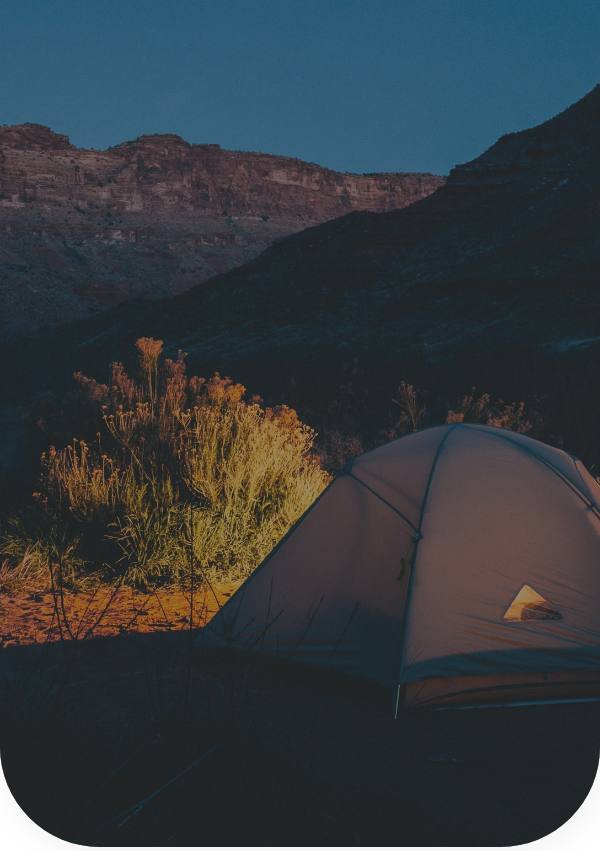
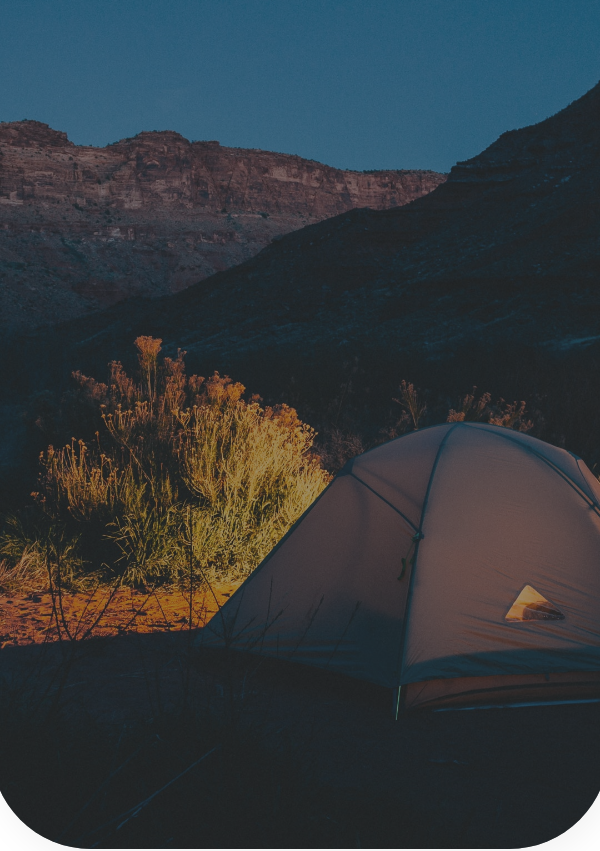
images done

diff --git a/app/index.html b/app/index.html
@@ -68,11 +68,45 @@
       <!-- Hero Section -->
       <div class="section-hero">
         <div class="hero">
-          <img
-            src="./assets/images/img/hero-background.png"
-            alt="campsel hero hero-background image"
-            class="hero-image"
-          />
+          <picture>
+            <source
+              srcset="
+                ./assets/images/img/hero-background.png    2010w,
+                ./assets/images/img/hero-background-2x.png 4020w
+              "
+              media="(min-width: 1800px)"
+            />
+            <source
+              srcset="
+                ./assets/images/img/hero-desktop.png 1800w,
+                ./assets/images/img/hero-desktop.png 3600w
+              "
+              media="(min-width: 1200px)"
+            />
+            <source
+              srcset="
+                ./assets/images/img/hero-ipadpro.png    1200w,
+                ./assets/images/img/hero-ipadpro-2x.png 2400w
+              "
+              media="(min-width: 900px)"
+            />
+
+            <source
+              srcset="
+                ./assets/images/img/hero-ipad.png     900w,
+                ./assets/images/img/hero-ipad-2x.png 1800w
+              "
+              media="(min-width: 600px)"
+            />
+            <img
+              srcset="
+                ./assets/images/img/hero-mobile.png  600w,
+                ./assets/images/img/hero-mobile.png 1200w
+              "
+              alt="campsel hero camping background image"
+              class="hero-image"
+            />
+          </picture>
 
           <div class="hero-content">
             <h2 class="hero-content__heading">Find Yourself Outside.</h2>
@@ -152,9 +186,9 @@
             <div class="package">
               <div class="package-header">
                 <img
-                  src="./assets/images/img/trickle creek ranch.png"
+                  data-srcset="./assets/images/img/trickle creek ranch.png"
                   alt="Tickle Creek Ranch"
-                  class="package-header__image"
+                  class="lazyload package-header__image"
                 />
                 <svg
                   class="package-header__wishlist package-header__wishlist--active"

diff --git a/app/assets/scripts/modules/tourPackage.js b/app/assets/scripts/modules/tourPackage.js
@@ -32,8 +32,11 @@ class TourPackage {
     if (window.scrollY + this.windowHeight > el.offsetTop) {
       let scrollPercent =
         (el.getBoundingClientRect().y / this.windowHeight) * 100;
-      if (scrollPercent < 60) {
+      if (scrollPercent < 70) {
+        let className = 0;
+        this.GenerateHTML(el, className);
         el.classList.add("package__reveal--visible");
+
         el.isVisible = true;
         if (el.isLastItem) {
           window.removeEventListener("scroll", this.scrollThrottle);
@@ -47,6 +50,12 @@ class TourPackage {
       el.isVisible = false;
     });
     this.revealPackages[this.revealPackages.length - 1].isLastItem = true;
+  }
+  GenerateHTML(el, className) {
+    const arr = [];
+    if (el.classList.contains("feature")) {
+      console.log(el, className);
+    }
   }
 }
 

diff --git a/app/assets/scripts/APP.js b/app/assets/scripts/APP.js
@@ -1,5 +1,6 @@
 import "../styles/main.scss";
 import "../scripts/modules/cursor";
+import "lazysizes";
 import Navigation from "../scripts/modules/navigation";
 import TourPackage from "../scripts/modules/tourPackage";
 import stickyHeader from "../scripts/modules/stickyHeader";
